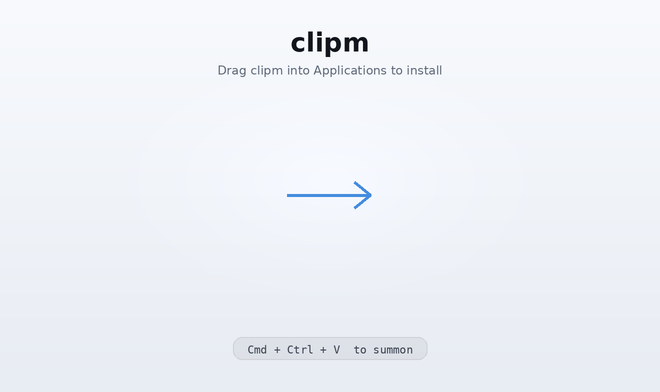
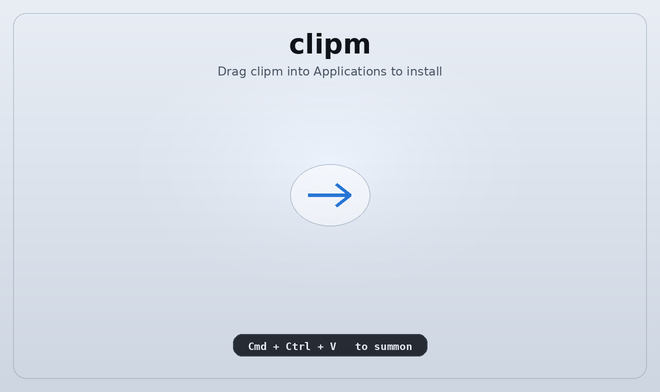
feat(ui,dmg): Apple Squircle continuous corners and Apple silver-titanium Retina DMG installer (v1.0.4)

diff --git a/lib/ui/clipboard_overlay_page.dart b/lib/ui/clipboard_overlay_page.dart
@@ -145,27 +145,34 @@ class _ClipboardOverlayPageState extends ConsumerState<ClipboardOverlayPage> {
         items.isEmpty ? 0 : rawSelectedIndex.clamp(0, items.length - 1);
     final selectedItem = items.isEmpty ? null : items[selectedIndex];
 
-    final cornerRadius = Platform.isMacOS ? 16.0 : 10.0;
-    final outerRadius = BorderRadius.circular(cornerRadius);
+    // ContinuousRectangleBorder implements Apple's smooth superellipse (Squircle)
+    // curve. Its radius parameter maps ~2.2x to a standard circular radius.
+    final squircleRadius = Platform.isMacOS ? 36.0 : 24.0;
+    final squircleShape = ContinuousRectangleBorder(
+      borderRadius: BorderRadius.circular(squircleRadius),
+    );
+    final squircleBorderShape = ContinuousRectangleBorder(
+      borderRadius: BorderRadius.circular(squircleRadius),
+      side: BorderSide(
+        color: OmarchyTheme.borderActive.withValues(alpha: 0.9),
+        width: 1,
+      ),
+    );
 
     return Scaffold(
       backgroundColor: Colors.transparent,
       body: Padding(
         padding: const EdgeInsets.all(0.5),
         child: Container(
-          decoration: BoxDecoration(
+          decoration: ShapeDecoration(
             color: OmarchyTheme.bg,
-            borderRadius: outerRadius,
+            shape: squircleShape,
           ),
-          foregroundDecoration: BoxDecoration(
-            borderRadius: outerRadius,
-            border: Border.all(
-              color: OmarchyTheme.borderActive.withValues(alpha: 0.9),
-              width: 1,
-            ),
+          foregroundDecoration: ShapeDecoration(
+            shape: squircleBorderShape,
           ),
-          child: ClipRRect(
-            borderRadius: outerRadius,
+          child: ClipPath(
+            clipper: ShapeBorderClipper(shape: squircleShape),
             child: Column(
             children: [
               SearchHeader(
